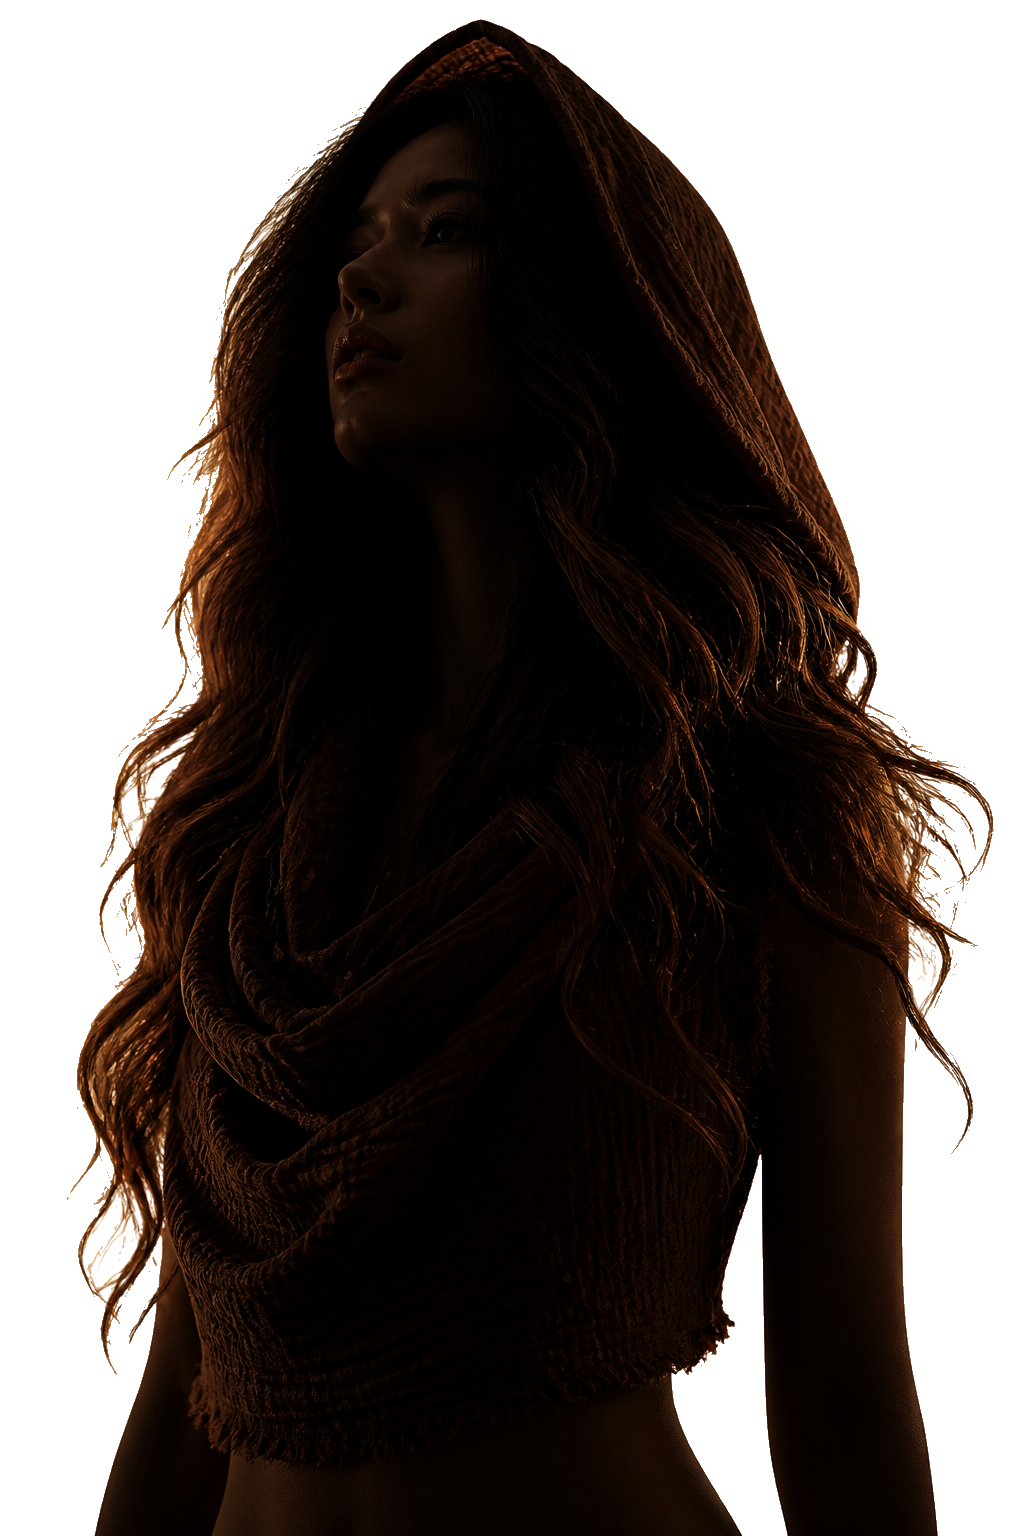
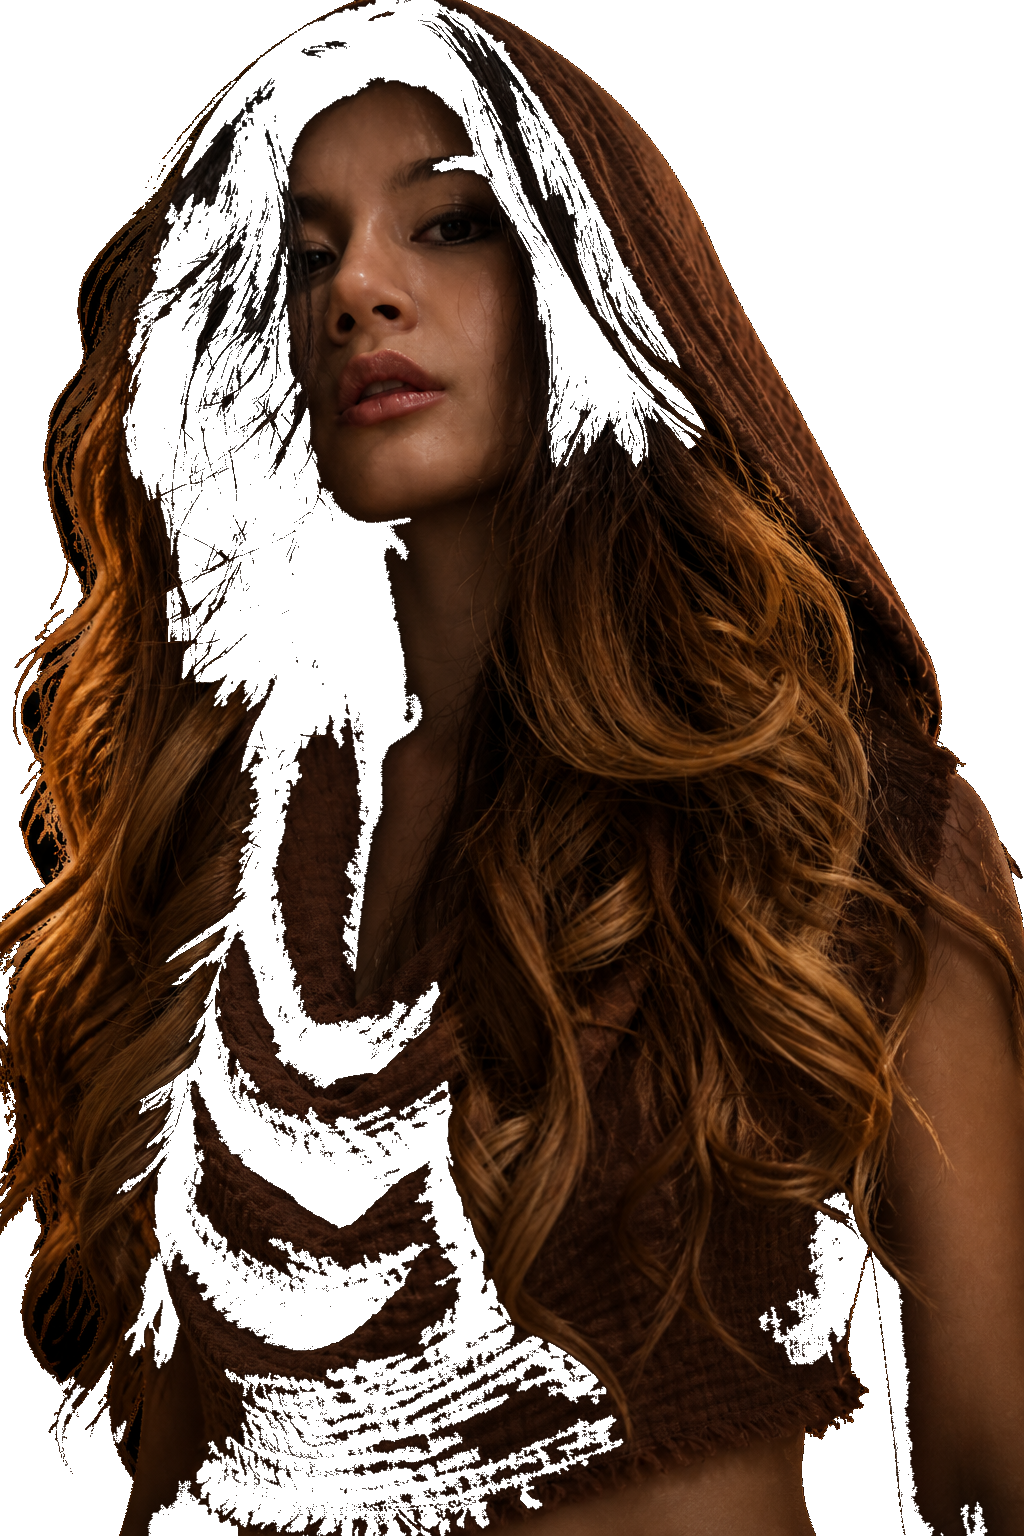
Speed leaf sprawl and keep the sister’s face readable.

diff --git a/script.js b/script.js
@@ -5,13 +5,13 @@ const illumCtx = illum.getContext("2d", { alpha: true });
 const dropLetter = document.querySelector(".drop-letter");
 
 const GRID = 22;
-const REVEAL_RADIUS = 52;
-const BLOOM_RADIUS = 48;
-const BLOOM_DELAY = 1100;
-const SPRAWL_STAGGER = 1600;
-const STEM_LEAD = 380;
-const BLOOM_SPEED = 0.0024;
-const FADE_SPEED = 0.0028;
+const REVEAL_RADIUS = 64;
+const BLOOM_RADIUS = 72;
+const BLOOM_DELAY = 820;
+const SPRAWL_STAGGER = 2100;
+const STEM_LEAD = 360;
+const BLOOM_SPEED = 0.0034;
+const FADE_SPEED = 0.003;
 const PERSIST_MS = 3600;
 const GOLDEN = Math.PI * (3 - Math.sqrt(5));
 const PHI = (1 + Math.sqrt(5)) / 2;
@@ -1338,8 +1338,8 @@ function frame(now) {
 
   for (const node of blooms.values()) {
     if (node.stem < 0.02 && node.bloom < 0.02) continue;
-    const pts = integrateStream(node.x, node.y, node.seed, now, 46, 0.52);
-    drawBloomAt(fieldCtx, pts, node.bloom, node.stem, node.seed, 1.65);
+    const pts = integrateStream(node.x, node.y, node.seed, now, 58, 0.62);
+    drawBloomAt(fieldCtx, pts, node.bloom, node.stem, node.seed, 1.75);
   }
 
   updateDust();

diff --git a/styles.css b/styles.css
@@ -27,14 +27,14 @@ body {
   left: 3.2vw;
   bottom: 6.5vh;
   z-index: 3;
-  height: 78px;
+  height: 156px;
   width: auto;
   object-fit: contain;
   object-position: left bottom;
   pointer-events: none;
   user-select: none;
   opacity: 0.92;
-  filter: brightness(0.78) contrast(1.12) saturate(0.7);
+  filter: brightness(0.92) contrast(1.08) saturate(0.85);
 }
 
 #field,
@@ -99,7 +99,7 @@ body {
   .sister {
     left: 4vw;
     bottom: 5vh;
-    height: 58px;
+    height: 118px;
   }
 
   .drop {
